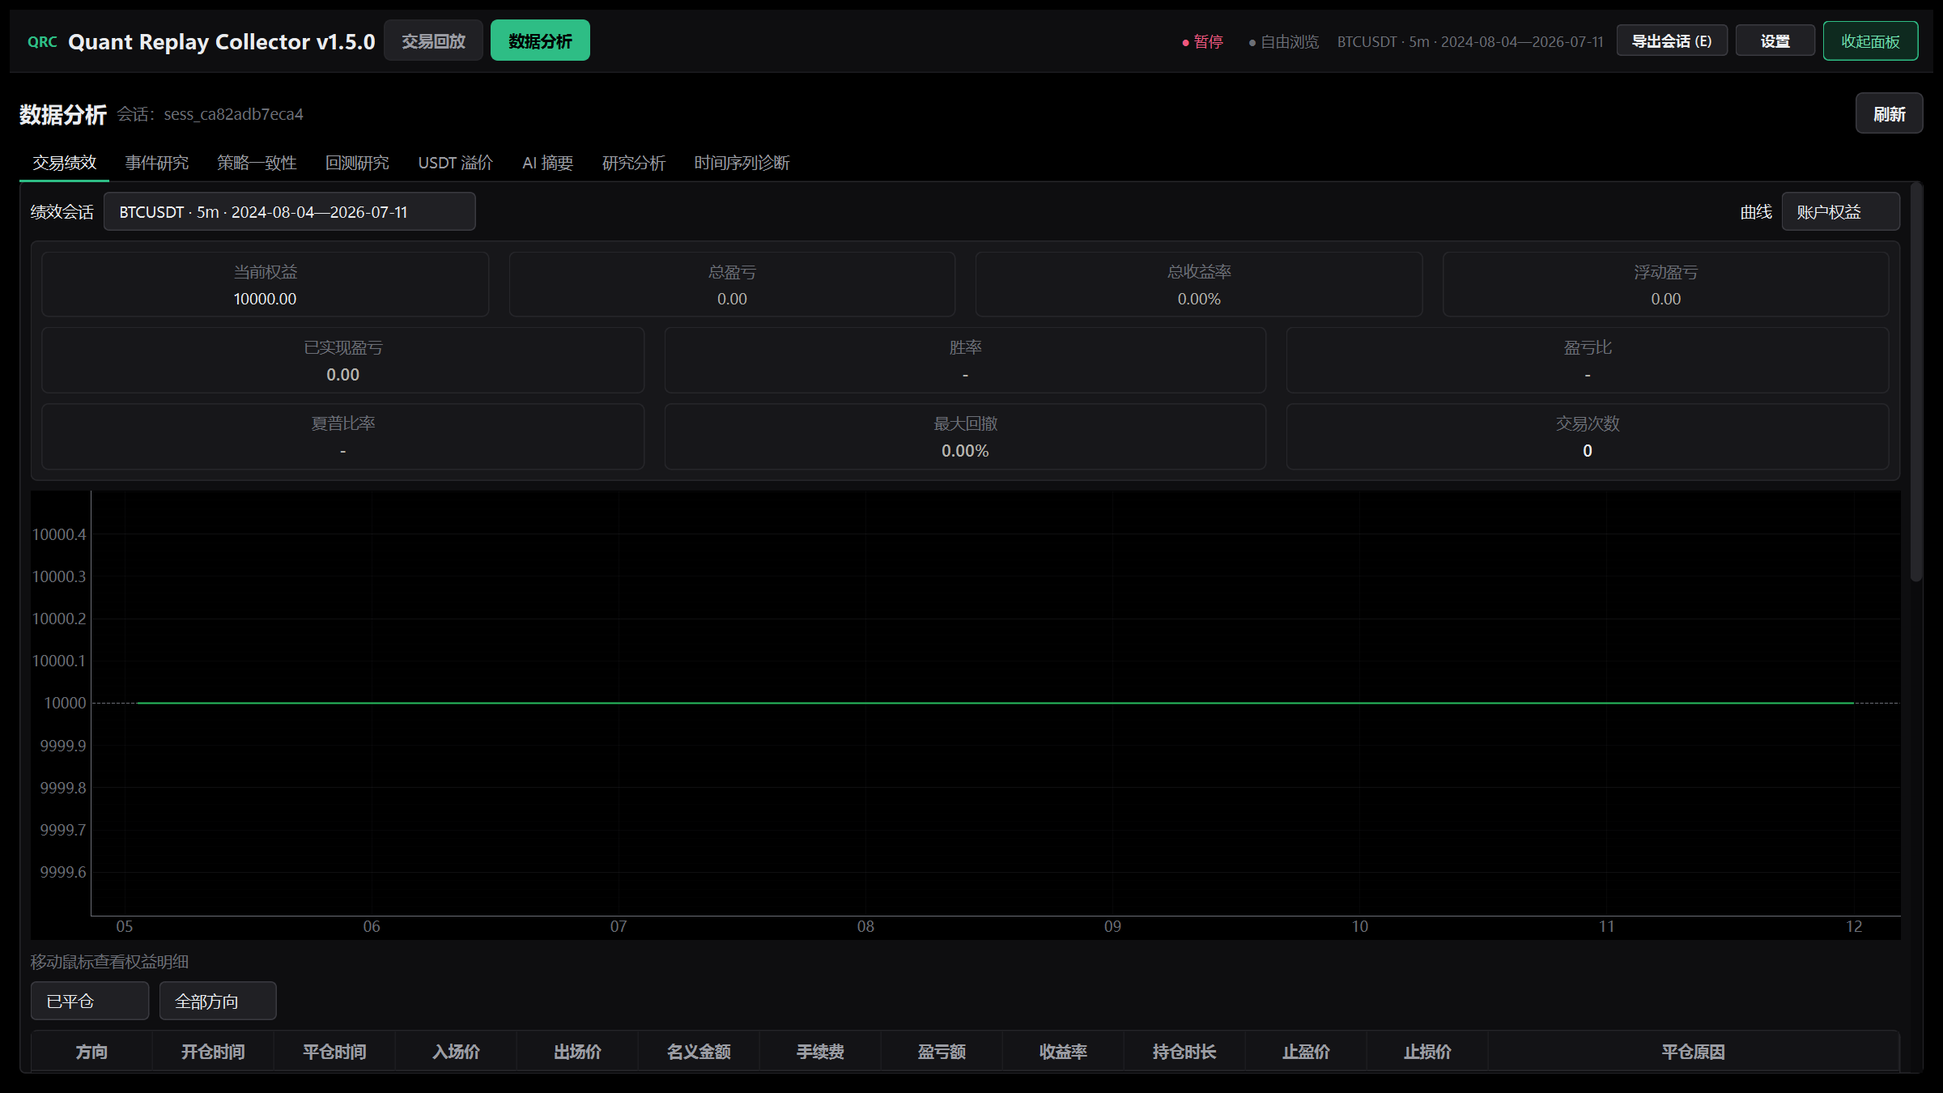
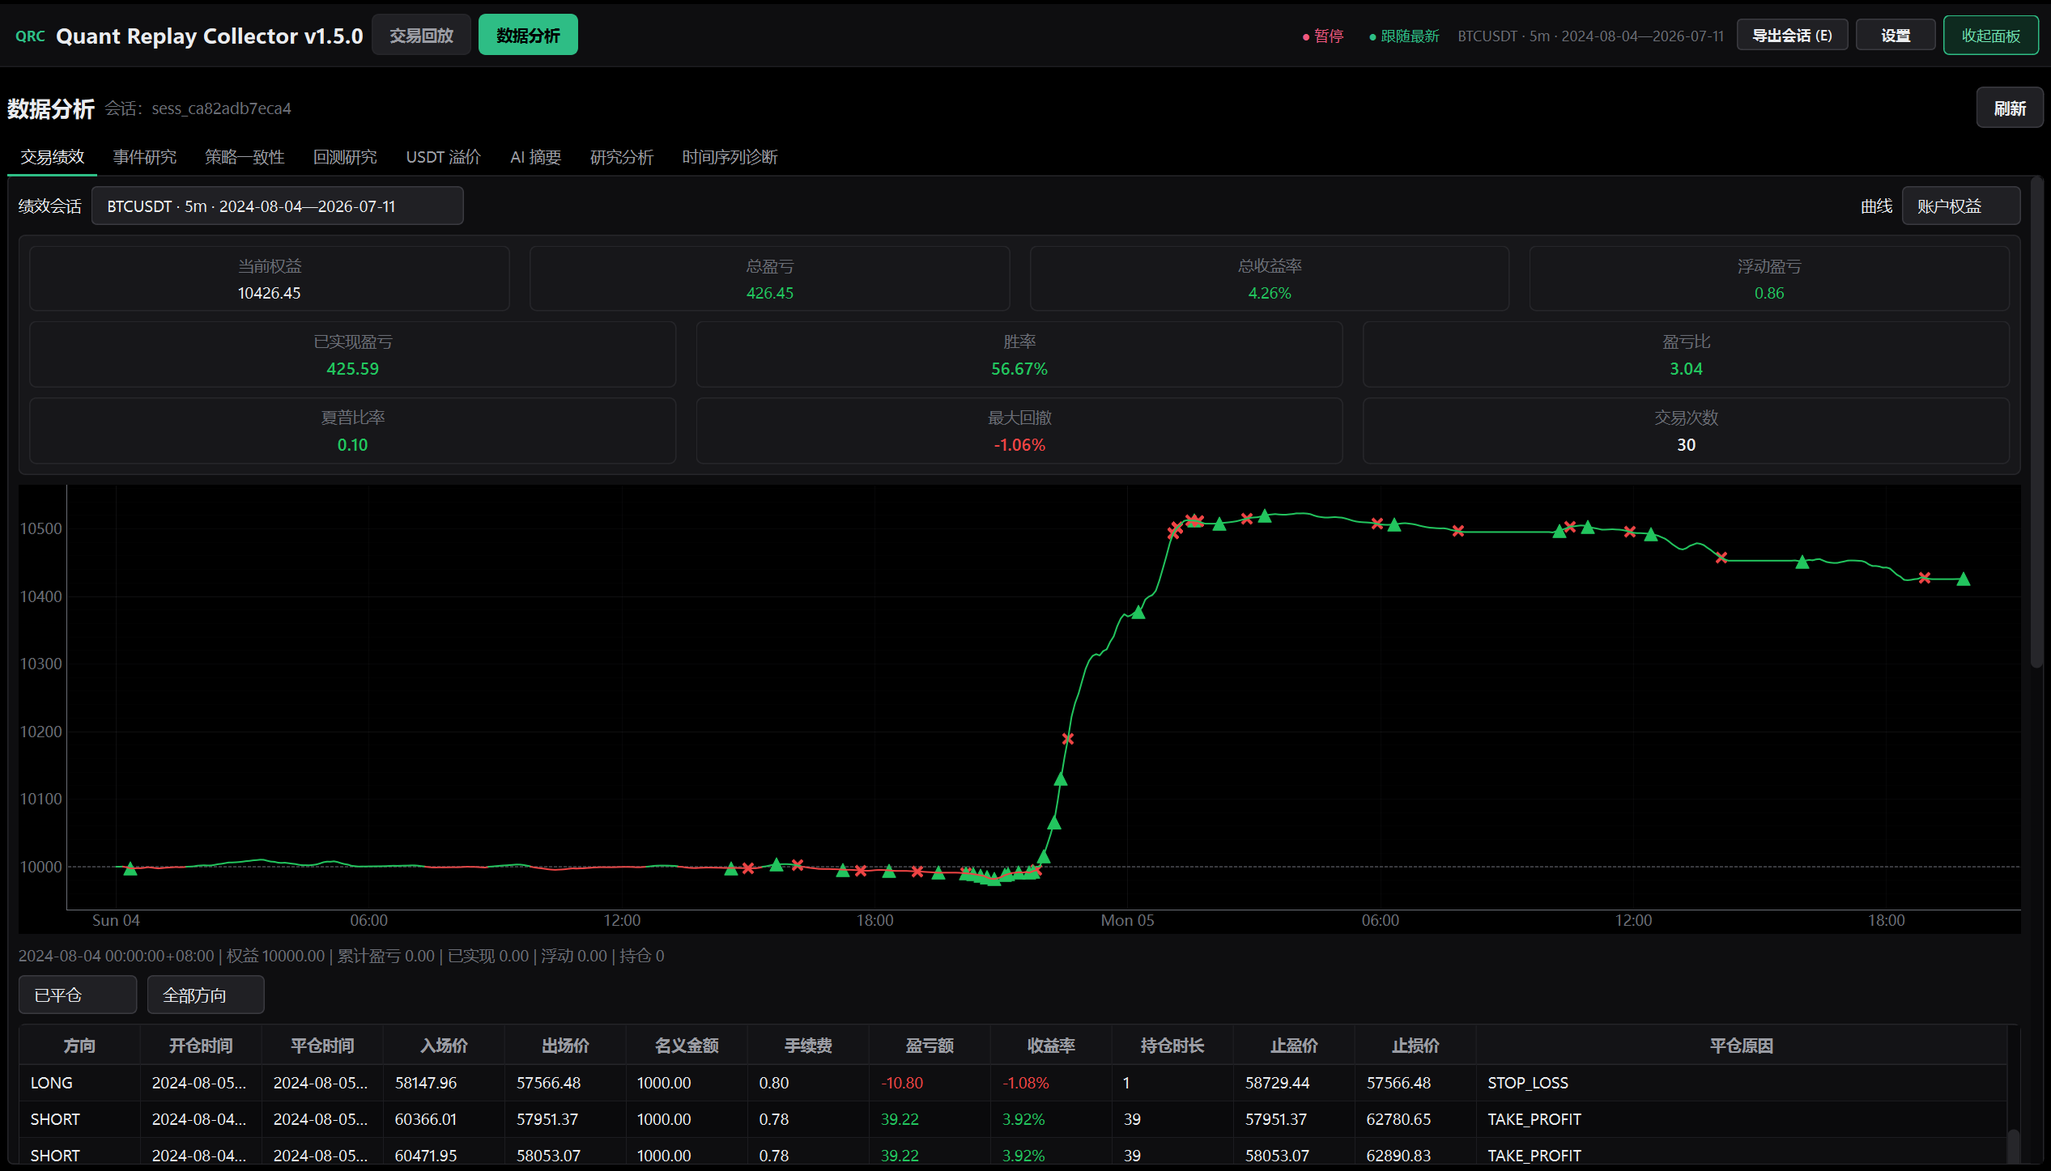
docs: add bilingual README screenshots

diff --git a/scripts/capture_readme_screenshots.py b/scripts/capture_readme_screenshots.py
@@ -71,7 +71,7 @@ def main() -> int:
         window._render(force=True)
         _settle(1200)
 
-    captured = [_save(window, "qrc-replay-workspace.png")]
+    captured = [_save(window, "qrc-home.png")]
 
     window.open_analysis_workspace()
     _settle(1200)

diff --git a/README.md b/README.md
@@ -1,85 +1,111 @@
 # Quant Replay Collector（QRC）
 
 > 把主观交易策略变成可以记录、比较、检验和复现的数据。
+>
+> Turn discretionary trading strategies into data that can be recorded, compared, tested, and reproduced.
 
-很多主观交易者能在盘面上认出机会，却很难回答三个问题：当时到底看到了什么，为什么出手，同类场景下是否总会做出相近的决定。没有这些记录，复盘容易变成事后解释，策略也很难写成规则。
+很多主观交易者能在盘面上认出机会，却很难说清当时看到了什么、为什么出手，以及同类场景下是否会做出相近的决定。缺少连续记录时，复盘容易变成事后解释，策略也很难写成可检验的规则。
 
-QRC 从这里入手。它逐根回放 K 线，保存用户当时的开仓、平仓、标签、备注和市场上下文；再把相似交易行为归到同一类 setup，分析每类行为对应的价格结构、波动、成交量、结果分布和执行习惯。研究者可以据此提出阈值、条件和退出规则，再用事件研究、时间序列诊断和回测去检验。
+Many discretionary traders can recognize an opportunity on a chart, but struggle to explain what they saw, why they acted, or whether they would make the same decision in a similar situation. Without a continuous record, review becomes hindsight and the strategy remains difficult to express as testable rules.
 
-QRC 不承诺把经验一键变成盈利策略。它解决的是前一步：把散落在交易者脑中的判断，整理成有样本、有定义、能被反驳的候选规则。
+QRC 逐根回放 K 线，记录用户当时的开仓、平仓、标签、备注和市场上下文，再把相似交易行为归到同一类 setup。系统分析每类行为对应的价格结构、波动、成交量、结果分布和执行习惯，帮助研究者提出阈值、条件与退出规则，并用事件研究、时间序列诊断和回测检验这些假设。
+
+QRC replays market data bar by bar, recording entries, exits, labels, notes, and the market context visible at the time. It groups similar trading behavior into setups, then analyzes price structure, volatility, volume, outcome distributions, and execution habits so researchers can propose thresholds, conditions, and exit rules and test them through event studies, time-series diagnostics, and backtests.
+
+QRC 不承诺把经验一键变成盈利策略。它做的是更基础的工作：把散落在交易者脑中的判断整理成有样本、有定义、可以被数据反驳的候选规则。
+
+QRC does not promise to turn experience into a profitable strategy with one click. Its job is more fundamental: convert the judgments in a trader's head into candidate rules with samples, definitions, and evidence that can prove them wrong.
 
 ```mermaid
 flowchart LR
-    A[主观判断] --> B[回放中记录交易行为]
-    B --> C[按标签与场景归类]
-    C --> D[提取决策时可见特征]
-    D --> E[单独计算后验结果]
-    E --> F[统计检验与一致性审计]
-    F --> G[形成候选规则并回测]
+    A["主观判断<br/>Discretionary judgment"] --> B["回放中记录交易行为<br/>Record behavior during replay"]
+    B --> C["按标签与场景归类<br/>Group by label and context"]
+    C --> D["提取决策时可见特征<br/>Extract decision-time features"]
+    D --> E["单独计算后验结果<br/>Calculate later outcomes separately"]
+    E --> F["统计检验与一致性审计<br/>Test and audit consistency"]
+    F --> G["形成候选规则并回测<br/>Form candidate rules and backtest"]
     G --> B
 ```
 
-## QRC 如何收集策略
+## QRC 如何收集策略 / How QRC captures a strategy
 
-交易发生时，QRC 保存方向、价格、时间、手续费、滑点、仓位、止盈止损、标签和备注。标签可以描述深 V 反转、长下影、放量、假突破、二次探底等盘面语言。系统同时保留当根 K 线之前已经出现的行情，之后的收益、MFE、MAE 和最终结果另行计算。
+交易发生时，QRC 保存方向、价格、时间、手续费、滑点、仓位、止盈止损、标签和备注。标签可以描述深 V 反转、长下影、放量、假突破、二次探底等交易者熟悉的盘面语言。系统保留当根 K 线之前已经出现的行情；之后的收益、MFE、MAE 和最终结果则单独计算。
 
-这套分离很重要。决策特征只能来自当时可见的数据，后验结果只用于标签和评估。否则，未来行情会混进策略输入，最后得到一个看起来很好、实际上无法交易的规则。
+When a trade occurs, QRC stores its direction, price, time, fees, slippage, position size, take-profit and stop-loss settings, labels, and notes. Labels can describe familiar chart patterns such as a deep V reversal, long lower wick, volume expansion, false breakout, or secondary bottom. Market data visible before the decision is preserved, while later returns, MFE, MAE, and final outcomes are calculated separately.
+
+这种分离是研究能否成立的前提。决策特征只能来自当时可见的数据，后验结果只用于标注和评估。否则未来行情会混进策略输入，得到一个历史上很好看、实际无法交易的规则。
+
+This separation is necessary for valid research. Decision features may only use information available at the time, while later outcomes are reserved for labeling and evaluation. Mixing future data into strategy inputs creates rules that look strong in historical tests but cannot be traded in practice.
 
 数据积累后，可以按 setup、方向、周期、市场状态或用户标签分组。QRC 不替用户编造交易逻辑，而是回答更具体的问题：哪些条件经常一起出现，哪些判断在相似场景中稳定，哪些规则只在少量样本上成立。
 
-## 当前模块
+As the dataset grows, trades can be grouped by setup, direction, timeframe, market regime, or user label. QRC does not invent a trading thesis for the user. It helps answer narrower questions: which conditions tend to appear together, which decisions remain stable in comparable situations, and which apparent rules depend on only a few samples.
 
-| 模块 | 主要用途 |
+## 当前模块 / Current modules
+
+| 模块<br>Module | 主要用途<br>Purpose |
 | --- | --- |
-| K 线回放与交易记录 | 逐根回放、自由缩放、调整速度，记录开平仓、止盈止损、标签和备注 |
-| 样本与特征构建 | 生成决策时特征、事件窗口、后验标签和可追溯的样本索引 |
-| 事件研究 | 比较事件前后收益、波动和路径，检查某类 setup 是否反复出现相近结果 |
-| 策略一致性审计 | 检查样本量、方向集中度、标签完整度、风险元数据和相似场景下的动作一致性 |
-| 金融时间序列分析 | 分析收益分布、自相关、白噪声、波动聚集、尾部风险、微观结构和多资产因子 |
-| 研究型回测 | 在明确手续费、滑点、成交时点和持仓规则后，对候选规则做历史模拟 |
-| 数据质量与泄漏审计 | 检查缺口、重复值、时间顺序、未来函数和训练/验证/测试边界 |
-| 交易绩效 | 统计权益、已实现与浮动盈亏、胜率、盈亏比、夏普比率和最大回撤 |
+| K 线回放与交易记录<br>Bar replay and trade capture | 逐根回放、自由缩放、调整速度，记录开平仓、止盈止损、标签和备注<br>Replay bar by bar, pan and zoom freely, control speed, and record entries, exits, risk settings, labels, and notes |
+| 样本与特征构建<br>Sample and feature construction | 生成决策时特征、事件窗口、后验标签和可追溯的样本索引<br>Build decision-time features, event windows, outcome labels, and traceable sample indexes |
+| 事件研究<br>Event studies | 比较事件前后收益、波动和路径，检查某类 setup 是否反复出现相近结果<br>Compare returns, volatility, and paths around events to test whether a setup produces similar outcomes repeatedly |
+| 策略一致性审计<br>Strategy consistency audit | 检查样本量、方向集中度、标签完整度、风险元数据和相似场景下的动作一致性<br>Check sample size, directional concentration, label completeness, risk metadata, and action consistency in similar situations |
+| 金融时间序列分析<br>Financial time-series analysis | 分析收益分布、自相关、白噪声、波动聚集、尾部风险、微观结构和多资产因子<br>Analyze return distributions, autocorrelation, white noise, volatility clustering, tail risk, microstructure, and multi-asset factors |
+| 研究型回测<br>Research backtesting | 在明确手续费、滑点、成交时点和持仓规则后，对候选规则做历史模拟<br>Simulate candidate rules with explicit fees, slippage, execution timing, and position rules |
+| 数据质量与泄漏审计<br>Data quality and leakage audit | 检查缺口、重复值、时间顺序、未来函数和训练、验证、测试边界<br>Check gaps, duplicates, time ordering, look-ahead leakage, and train-validation-test boundaries |
+| 交易绩效<br>Trading performance | 统计权益、已实现与浮动盈亏、胜率、盈亏比、夏普比率和最大回撤<br>Measure equity, realized and floating PnL, win rate, profit factor, Sharpe ratio, and maximum drawdown |
 
-### 策略一致性审计
+### 策略一致性审计 / Strategy consistency audit
 
-一致性审计不评价交易者“守不守纪律”，也不把固定模板当成标准答案。它先看样本结构：同类场景里，方向是否过度集中，标签和退出原因是否缺失，动作是否反复变化，样本量是否足以支持结论。
+一致性审计不评价交易者“守不守纪律”，也不把固定模板当成标准答案。它先检查样本结构：同类场景里，方向是否过度集中，标签和退出原因是否缺失，动作是否反复变化，样本量是否足以支撑结论。
 
-一致性高，只能说明行为比较稳定；它不等于策略有效，更不等于未来盈利。QRC 会把这条边界写进审计报告。
+The consistency audit does not judge whether a trader is disciplined, nor does it treat a fixed template as the correct answer. It first examines the sample structure: whether direction is overly concentrated, labels or exit reasons are missing, actions vary repeatedly in similar situations, and the sample size can support a conclusion.
 
-### 金融时间序列分析
+一致性高只说明行为比较稳定，不代表策略有效，更不代表未来盈利。审计报告会明确保留这条边界。
+
+High consistency only means behavior is relatively stable. It does not prove that a strategy works or will remain profitable, and the audit report states this limitation explicitly.
+
+### 金融时间序列分析 / Financial time-series analysis
 
 时间序列模块研究行情本身。当前包含收益率分布、Jarque-Bera 正态性诊断、Ljung-Box 序列依赖、波动聚集、历史与 EWMA VaR/ES、尾部损失、短周期噪声近似诊断，以及多资产数据可用时的因子分析。
 
+The time-series module studies the market data itself. It currently covers return distributions, Jarque-Bera normality diagnostics, Ljung-Box serial-dependence tests, volatility clustering, historical and EWMA VaR/ES, tail losses, approximate short-horizon noise diagnostics, and factor analysis when multi-asset data is available.
+
 这些结果用于判断数据的统计性质和建模限制，不直接生成买卖信号。短周期 K 线也不能代替逐笔成交或盘口数据。
 
-## 当前界面
+These results describe the statistical properties and modeling limits of the data; they do not directly generate trading signals. Short-interval bars are also not a substitute for tick or order-book data.
 
-### 交易回放与行为采集
+## 当前界面 / Current interface
 
-![QRC 交易回放与行为采集](docs/screenshots/qrc-replay-workspace.png)
+### 主页 / Home
 
-### 数据分析工作区
+![QRC 主页 / QRC Home](docs/screenshots/qrc-home.png)
 
-![QRC 数据分析工作区](docs/screenshots/qrc-analysis-workspace.png)
+### 数据分析工作区 / Data analysis workspace
 
-### 策略一致性审计
+![QRC 数据分析工作区 / QRC Data Analysis Workspace](docs/screenshots/qrc-analysis-workspace.png)
 
-![QRC 策略一致性审计](docs/screenshots/qrc-consistency-audit.png)
+### 策略一致性审计 / Strategy consistency audit
 
-### 金融时间序列诊断
+![QRC 策略一致性审计 / QRC Strategy Consistency Audit](docs/screenshots/qrc-consistency-audit.png)
 
-![QRC 金融时间序列诊断](docs/screenshots/qrc-time-series-analysis.png)
+### 金融时间序列诊断 / Financial time-series diagnostics
 
-截图可通过以下命令从当前代码重新生成：
+![QRC 金融时间序列诊断 / QRC Financial Time-Series Diagnostics](docs/screenshots/qrc-time-series-analysis.png)
+
+截图可以通过以下命令从当前代码重新生成：
+
+The screenshots can be regenerated from the current code with the following command:
 
 ```powershell
 $env:QT_QPA_PLATFORM='windows'
 .\.venv\Scripts\python.exe scripts\capture_readme_screenshots.py
 ```
 
-## 安装与启动
+## 安装与启动 / Installation and startup
 
 QRC 面向 Windows 桌面环境。建议使用仓库内的虚拟环境：
+
+QRC is designed for the Windows desktop environment. A repository-local virtual environment is recommended:
 
 ```powershell
 git clone https://github.com/Vinnnnnie21/quant-replay-collector.git
@@ -90,7 +116,9 @@ python -m venv .venv
 .\start.bat
 ```
 
-`start.bat` 使用 `pythonw` 启动，不会额外弹出命令行窗口。排查启动问题时使用：
+`start.bat` 使用 `pythonw` 启动，不会额外弹出命令行窗口。排查启动问题时使用下面的命令：
+
+`start.bat` launches the application through `pythonw`, so it does not open an additional command window. Use the command below when diagnosing startup problems:
 
 ```powershell
 .\.venv\Scripts\python.exe run_app.py
@@ -98,18 +126,24 @@ python -m venv .venv
 
 也可以直接运行包入口：
 
+You can also run the package entry point directly:
+
 ```powershell
 .\.venv\Scripts\python.exe -m quant_collector_app
 ```
 
-## 数据与研究边界
+## 数据与研究边界 / Data and research boundaries
 
-- 数据库、行情缓存、导出结果、日志和个人设置只保存在本地，默认不会提交到 Git。
-- 决策时特征与后验结果分开存放。未来收益、MFE、MAE、胜负和事件后窗口不能进入模型输入。
-- 回测结果依赖手续费、滑点、成交规则、样本区间和参数选择。历史表现不代表未来结果。
-- QRC 不连接交易所下单 API，不自动交易，也不提供投资建议。
+- 数据库、行情缓存、导出结果、日志和个人设置只保存在本地，默认不会提交到 Git。<br>Databases, market caches, exports, logs, and personal settings remain local and are excluded from Git by default.
+- 决策时特征与后验结果分开存放。未来收益、MFE、MAE、胜负和事件后窗口不能进入模型输入。<br>Decision-time features are stored separately from later outcomes. Future returns, MFE, MAE, win/loss labels, and post-event windows must not enter model inputs.
+- 回测结果依赖手续费、滑点、成交规则、样本区间和参数选择。历史表现不代表未来结果。<br>Backtest results depend on fees, slippage, execution rules, sample periods, and parameter choices. Historical performance does not guarantee future results.
+- QRC 不连接交易所下单 API，不自动交易，也不提供投资建议。<br>QRC does not connect to exchange order APIs, place trades automatically, or provide investment advice.
 
-## 发布前检查
+## 发布前检查 / Pre-release checks
+
+发布前运行完整测试、自检和干净构建检查：
+
+Before publishing, run the complete tests, self-check, and clean-build validation:
 
 ```powershell
 .\.venv\Scripts\python.exe -m compileall -q quant_collector_app tests
@@ -119,30 +153,30 @@ python -m venv .venv
 .\.venv\Scripts\python.exe scripts\check_release_clean.py dist\QuantReplayCollector-CI
 ```
 
-## 代码与文档
+## 代码与文档 / Code and documentation
 
-- `quant_collector_app/`：桌面应用、研究模块、存储层和导出逻辑
-- `quant_collector_app/views/`：主窗口与界面组件
-- `quant_collector_app/analysis/`、`quant_collector_app/time_series_analysis/`：特征、审计和时间序列分析
-- `quant_collector_app/backtesting/`：研究型回测与时间切分
-- `scripts/`：诊断、性能分析、发布检查和截图生成
-- `tests/`：业务逻辑、数据边界、UI 合同和回归测试
+- `quant_collector_app/`：桌面应用、研究模块、存储层和导出逻辑<br>Desktop application, research modules, storage layer, and export logic
+- `quant_collector_app/views/`：主窗口与界面组件<br>Main window and interface components
+- `quant_collector_app/analysis/`、`quant_collector_app/time_series_analysis/`：特征、审计和时间序列分析<br>Features, audits, and time-series analysis
+- `quant_collector_app/backtesting/`：研究型回测与时间切分<br>Research backtesting and temporal splits
+- `scripts/`：诊断、性能分析、发布检查和截图生成<br>Diagnostics, performance analysis, release checks, and screenshot generation
+- `tests/`：业务逻辑、数据边界、UI 合同和回归测试<br>Business logic, data boundaries, UI contracts, and regression tests
 
 进一步阅读：
 
-- [研究工作流](docs/research_workflow.md)
-- [每日研究流程](docs/research_daily_workflow.md)
-- [开仓逻辑研究](docs/research_entry_logic_modeling.md)
-- [策略一致性](docs/strategy_consistency.md)
-- [金融时间序列分析](docs/time_series_analysis.md)
-- [回测说明](docs/backtesting.md)
-- [系统架构](docs/architecture.md)
-- [测试说明](docs/testing.md)
+Further reading:
 
-## English summary
+- [研究工作流 / Research workflow](docs/research_workflow.md)
+- [每日研究流程 / Daily research workflow](docs/research_daily_workflow.md)
+- [开仓逻辑研究 / Entry-logic research](docs/research_entry_logic_modeling.md)
+- [策略一致性 / Strategy consistency](docs/strategy_consistency.md)
+- [金融时间序列分析 / Financial time-series analysis](docs/time_series_analysis.md)
+- [回测说明 / Backtesting](docs/backtesting.md)
+- [系统架构 / Architecture](docs/architecture.md)
+- [测试说明 / Testing](docs/testing.md)
 
-QRC records discretionary trading decisions during bar-by-bar replay, groups similar behaviors into setups, separates decision-time features from later outcomes, and provides consistency audits, financial time-series diagnostics, event studies and research backtests. Its purpose is to turn a trader's repeatable judgment process into explicit hypotheses that can be tested with data.
+## 许可证 / License
 
-## 许可证
+本项目采用 [MIT License](LICENSE)。
 
-[MIT License](LICENSE)
+This project is licensed under the [MIT License](LICENSE).
